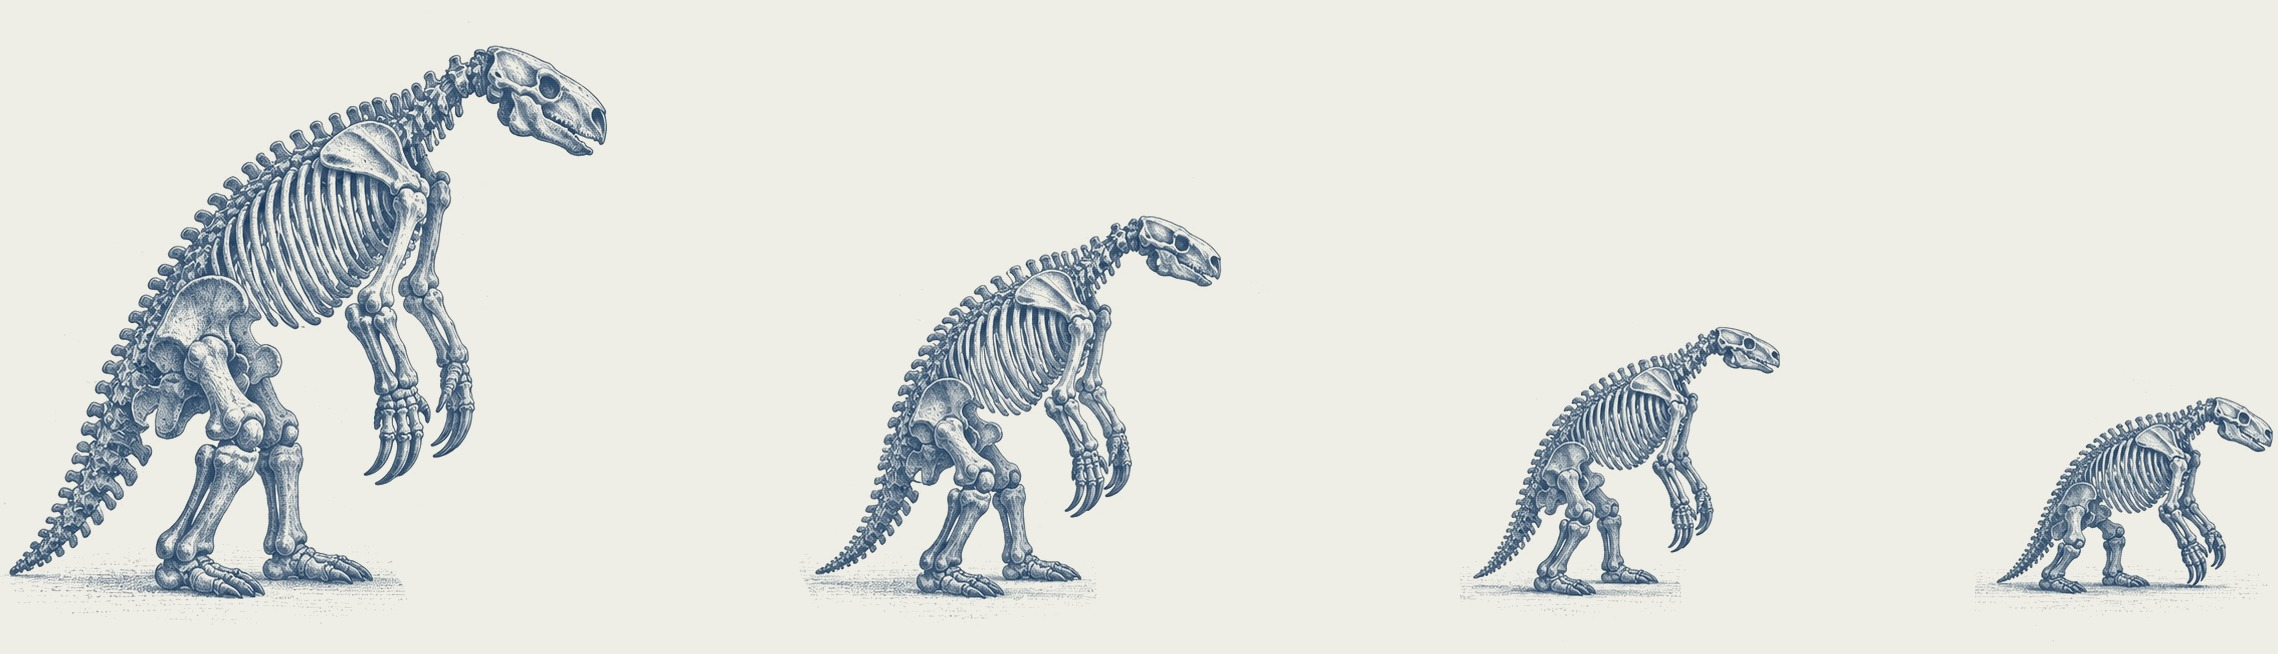
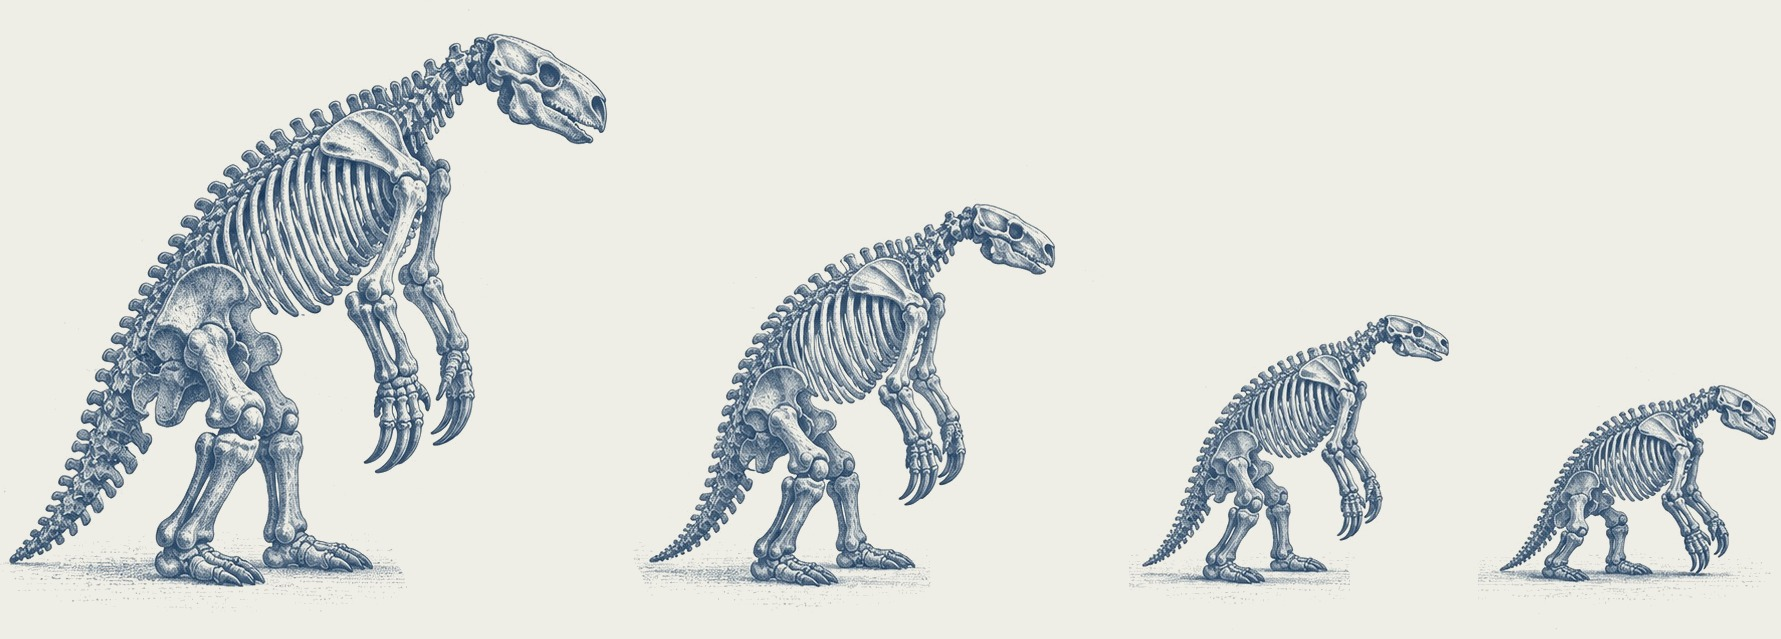
038: esqueletos más grandes

diff --git a/index.html b/index.html
@@ -5,23 +5,23 @@
 <meta charset="utf-8">
 <meta name="viewport" content="width=1280">
 <title>Darwin en la Argentina — libro</title>
-<link rel="stylesheet" href="styles/tokens.css?v=8d663071">
-<link rel="stylesheet" href="styles/typography.css?v=8d663071">
-<link rel="stylesheet" href="styles/grid.css?v=8d663071">
-<link rel="stylesheet" href="styles/components.css?v=8d663071">
-<link rel="stylesheet" href="styles/pages.css?v=8d663071">
-<link rel="stylesheet" href="styles/maps.css?v=8d663071">
-<link rel="stylesheet" href="styles/paradas.css?v=8d663071">
-<link rel="stylesheet" href="styles/registros.css?v=8d663071">
-<link rel="stylesheet" href="styles/tramo-03.css?v=8d663071">
-<link rel="stylesheet" href="styles/tramo-04-05.css?v=8d663071">
-<link rel="stylesheet" href="styles/tramo-05-07.css?v=8d663071">
-<link rel="stylesheet" href="styles/tramo-07-10.css?v=8d663071">
-<link rel="stylesheet" href="styles/tramo-10-15.css?v=8d663071">
-<link rel="stylesheet" href="styles/fotos.css?v=8d663071">
-<link rel="stylesheet" href="tapa/tapa.css?v=8d663071">
-<link rel="stylesheet" href="styles/medida.css?v=8d663071">
-<link rel="stylesheet" href="styles/print.css?v=8d663071">
+<link rel="stylesheet" href="styles/tokens.css?v=5bf2dcbf">
+<link rel="stylesheet" href="styles/typography.css?v=5bf2dcbf">
+<link rel="stylesheet" href="styles/grid.css?v=5bf2dcbf">
+<link rel="stylesheet" href="styles/components.css?v=5bf2dcbf">
+<link rel="stylesheet" href="styles/pages.css?v=5bf2dcbf">
+<link rel="stylesheet" href="styles/maps.css?v=5bf2dcbf">
+<link rel="stylesheet" href="styles/paradas.css?v=5bf2dcbf">
+<link rel="stylesheet" href="styles/registros.css?v=5bf2dcbf">
+<link rel="stylesheet" href="styles/tramo-03.css?v=5bf2dcbf">
+<link rel="stylesheet" href="styles/tramo-04-05.css?v=5bf2dcbf">
+<link rel="stylesheet" href="styles/tramo-05-07.css?v=5bf2dcbf">
+<link rel="stylesheet" href="styles/tramo-07-10.css?v=5bf2dcbf">
+<link rel="stylesheet" href="styles/tramo-10-15.css?v=5bf2dcbf">
+<link rel="stylesheet" href="styles/fotos.css?v=5bf2dcbf">
+<link rel="stylesheet" href="tapa/tapa.css?v=5bf2dcbf">
+<link rel="stylesheet" href="styles/medida.css?v=5bf2dcbf">
+<link rel="stylesheet" href="styles/print.css?v=5bf2dcbf">
 </head>
 <body>
 <div class="spread"><div class="slot--empty"></div><section class="page page--cover page--right front" id="ptapa">

diff --git a/styles/medida.css b/styles/medida.css
@@ -96,3 +96,6 @@
 .p040__image { grid-row: 7 / 23; }
 .p040__caption { grid-row: 24 / 26; align-self: end; }
 .p041__shells { grid-row: 19 / 24; transform: translateY(-1.2mm); }
+/* 038: esqueletos más grandes (caja de 15 líneas, 13–27); el mayor queda bajo la columna corta de la lista */
+.p038__image { grid-row: 13 / 28; }
+.p038__text { position: relative; z-index: 1; }

diff --git a/tools/laminas.py b/tools/laminas.py
@@ -68,7 +68,7 @@ y0 = round(im.height / 2 - h / 2)
 guardar(ImageOps.autocontrast(im.crop((0, y0, im.width, y0 + h)), cutoff=0.5), '037-punta-alta', 210)
 
 # 038 · los cuatro esqueletos, recortados uno por uno y vueltos a poner en fila con más aire entre ellos,
-# a todo el ancho de la caja (188 × 54 mm). Parte de assets/images/038-megaterios.jpg (lo prepara tools/fotos.py);
+# a todo el ancho de la caja (188 × 67,5 mm). Parte de assets/images/038-megaterios.jpg (lo prepara tools/fotos.py);
 # la escala del dibujo no cambia entre esqueletos: siguen a tamaños comparados.
 from scipy import ndimage
 src = Image.open(os.path.join(IMG, '038-megaterios.jpg')).convert('RGB')
@@ -90,8 +90,8 @@ for i in range(4):
     piezas.append(a)
 ys = np.where(np.any(np.stack([(cerca == i) & (dmin < 45) & (gris < 232) for i in range(4)]).any(axis=0), axis=1))[0]
 y0, y1 = ys.min(), ys.max() + 1
-px = (y1 - y0) / 52          # el dibujo ocupa 52 mm de los 54 de la caja
-W, H = round(188 * px), round(54 * px)
+px = (y1 - y0) / 66.5        # el dibujo ocupa 66,5 mm de los 67,5 de la caja (15 líneas)
+W, H = round(188 * px), round(67.5 * px)
 lienzo = np.empty((H, W, 3), np.uint8); lienzo[:] = papel
 hueco = (W - sum(p.shape[1] for p in piezas)) / 3
 x = 0.0

diff --git a/BOOK_PROGRESS.md b/BOOK_PROGRESS.md
@@ -502,3 +502,4 @@ Se reemplazaron los 39 recuadros de imagen pendiente por ilustraciones generadas
 - 2026-10-12 · 038–041 recompuestas por encargo de Patricio (trabajo autónomo: huecos, composición y alineación entre página izquierda y derecha; misma información). 038: lista en dos columnas anchas arriba (1.º–2.º | 3.º–4.º), lámina de los esqueletos centrada y más grande al pie (116 mm de ancho, antes 90; termina en la línea 27 como el plano de 039), nota ED en la línea 28 como la de 039 (solo CSS). 039: sin cambios. 040: imagen recortada a 13 líneas (7–19, igual que el texto; tools/fotos.py), esquema de distancia desde la línea 21 (viewBox recortado arriba) y su nota ED a la derecha, a la misma altura. 041: corte de capas redibujado más alto (líneas 7–19, como la imagen de 040), conchas bajo el texto desde la línea 21 y nota ED a la derecha. Cambió el HTML de 040 y 041 (solo los SVG): re-aprobadas.
 - 2026-10-12 · 038: los cuatro esqueletos se recortan uno por uno y se reparten a todo el ancho de la caja, con ~16 mm de aire entre ellos (tools/laminas.py → assets/images/038-megaterios-fila.jpg, 308 ppp; misma escala relativa). 039: el plano de los 200 m² se achata (viewBox 92,34 × 22,5) y termina en la línea 23, donde termina el texto de la derecha; su nota ED pasa a la línea 25. Cambió el HTML de 038 (archivo de imagen) y 039 (SVG): re-aprobadas.
 - 2026-10-12 · 040: la imagen del cantil se alarga (líneas 7–22, recorte 92,3 × 72 mm, 361 ppp) y la nota ED termina en la línea 25, donde termina el esquema de distancia. 041: las conchas suben y terminan en la línea 22, donde termina la nota ED de la derecha. Solo CSS e imagen: las páginas siguen bloqueadas.
+- 2026-10-12 · 038: esqueletos un 28 % más grandes (caja de 15 líneas, 13–27; 66,5 mm de alto el mayor; 241 ppp), con ~3 mm entre cajas; el Megatherium queda bajo la columna corta de la lista. Solo CSS e imagen: la página sigue bloqueada.
